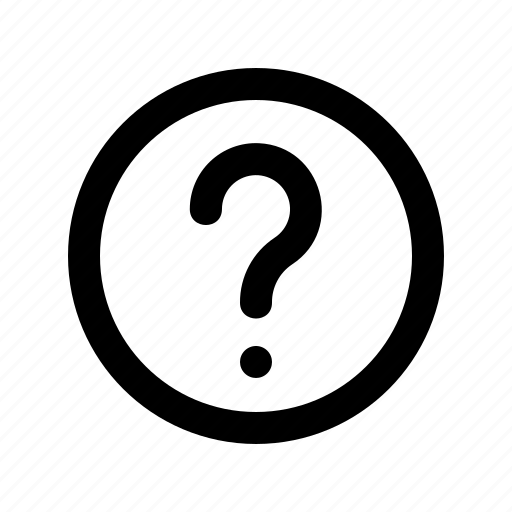
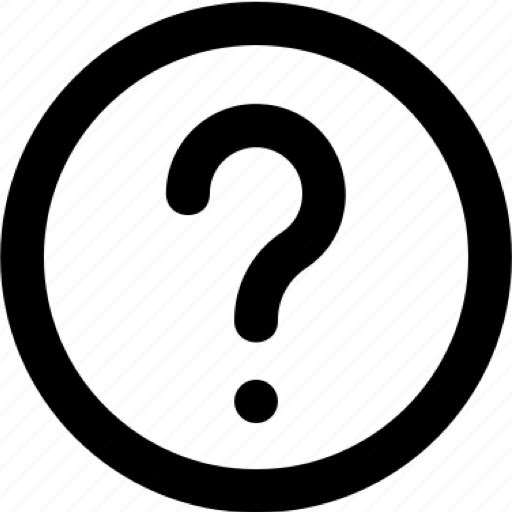
fixed buttons

diff --git a/screens/HomeScreen.js b/screens/HomeScreen.js
@@ -1,7 +1,6 @@
 import {useState} from 'react';
-import { StyleSheet, Text, TextInput, View, TouchableOpacity } from 'react-native';
+import { StyleSheet, Text, Image, TextInput, View, TouchableOpacity } from 'react-native';
 import Footer from '../components/Footer'
-import HelpIcon from '../components/HelpIcon'
 import * as SQLite from 'expo-sqlite'
 import {downloadDatabase} from '../database/databasefunctions'
 
@@ -40,7 +39,9 @@ export default function HomeScreen({navigation}) {
 
     return (
         <View style={styles.container}>
-          <HelpIcon />
+            <TouchableOpacity onPress={() => navigation.navigate('HelpScreen')}>
+                      <Image style={ styles.icon } source={require('../assets/question.png')}></Image>
+            </TouchableOpacity>
             <TouchableOpacity style={styles.syncButton} onPress={() => downloadDatabase()}>
               <Text style={styles.buttonText}>Download DB </Text>
             </TouchableOpacity>
@@ -64,13 +65,23 @@ const styles = StyleSheet.create({
     container: {
       flex: 1,
       backgroundColor: '#fff',
-      alignItems: 'center'
     },
+
+    icon:{
+      height: 50,
+      width: 50,
+      resizeMode: 'contain',
+      top: 50,
+      right:20,
+      position: 'absolute',
+    },
+
     boxText:{
         color: 'black',
         fontSize: 15,
         textAlign: 'center',
         top: "30%",
+        alignSelf: 'center',
     },
     sendButton:{
       backgroundColor: 'lightblue',
@@ -79,6 +90,7 @@ const styles = StyleSheet.create({
       justifyContent: 'center',
       borderRadius: 50,
       top: "30%",
+      alignSelf: 'center',
     },
 
     syncButton:{
@@ -88,6 +100,7 @@ const styles = StyleSheet.create({
       justifyContent: 'center',
       borderRadius: 50,
       top: "15%",
+      alignSelf: 'center',
     },
 
     buttonText:{
@@ -107,6 +120,7 @@ const styles = StyleSheet.create({
     fontSize: "20px",
     textAlign: "center",
     top: "30%",
+    alignSelf: 'center',
     }
   
   });

diff --git a/screens/MoreScreen.js b/screens/MoreScreen.js
@@ -1,13 +1,14 @@
-import { StyleSheet, Text, View, TouchableOpacity } from 'react-native';
+import { StyleSheet, Text, View, Image, TouchableOpacity } from 'react-native';
 import Footer from '../components/Footer'
-import HelpIcon from '../components/HelpIcon'
 
 export default function MoreScreen({navigation}) {
 
 
     return (
         <View style={styles.container}>
-            <HelpIcon />
+            <TouchableOpacity onPress={() => navigation.navigate('HelpScreen')}>
+                      <Image style={ styles.icon } source={require('../assets/question.png')}></Image>
+            </TouchableOpacity>
             <Text style={styles.boxText}>More Page</Text>
             <Footer />
         </View>
@@ -18,13 +19,20 @@ const styles = StyleSheet.create({
     container: {
       flex: 1,
       backgroundColor: '#fff',
-      justifyContent: 'center',
-      alignItems: 'center' 
     },
     boxText:{
         color: 'black',
         fontSize: 15,
         textAlign: 'center',
+        top: "50%",
+    },
+    icon:{
+      height: 50,
+      width: 50,
+      resizeMode: 'contain',
+      top: 50,
+      right:20,
+      position: 'absolute',
     },
   
   });

diff --git a/screens/HelpScreen.js b/screens/HelpScreen.js
@@ -1,12 +1,14 @@
-import { StyleSheet, Text, View, TouchableOpacity } from 'react-native';
-import Footer from '../components/Footer'
-import Exit from '../components/Exit'
+import { StyleSheet, Text, View, Image, TouchableOpacity } from 'react-native';
+import Footer from '../components/Footer';
 
 export default function HelpScreen({navigation}) {
 
     return (
         <View style={styles.container}>
-        <Exit />
+            <TouchableOpacity onPress={() => navigation.goBack()}>
+                <Image style={styles.icon} source={require('../assets/exit.png')}></Image>
+            </TouchableOpacity>
+
             <Text style={styles.boxText}>Help</Text>
             <Footer />
         </View>
@@ -17,13 +19,20 @@ const styles = StyleSheet.create({
     container: {
       flex: 1,
       backgroundColor: '#fff',
-      justifyContent: 'center',
-      alignItems: 'center' 
     },
     boxText:{
         color: 'black',
         fontSize: 15,
         textAlign: 'center',
+        top: "50%"
+    },
+    icon:{
+      height: 50,
+      width: 50,
+      resizeMode: 'contain',
+      top: 50,
+      right:20,
+      position: 'absolute',
     },
   
   });

diff --git a/screens/ViewScreen.js b/screens/ViewScreen.js
@@ -1,13 +1,14 @@
-import { StyleSheet, Text, View, TouchableOpacity } from 'react-native';
+import { StyleSheet, Text, View, Image, TouchableOpacity } from 'react-native';
 import Footer from '../components/Footer'
-import HelpIcon from '../components/HelpIcon'
 
 export default function ViewScreen({navigation}) {
 
 
     return (
         <View style={styles.container}>
-            <HelpIcon />
+         <TouchableOpacity onPress={() => navigation.navigate('HelpScreen')}>
+                      <Image style={ styles.icon } source={require('../assets/question.png')}></Image>
+        </TouchableOpacity>
             <Text style={styles.boxText}>View Page</Text>
             <Footer />
         </View>
@@ -18,13 +19,20 @@ const styles = StyleSheet.create({
     container: {
       flex: 1,
       backgroundColor: '#fff',
-      justifyContent: 'center',
-      alignItems: 'center' 
     },
     boxText:{
         color: 'black',
         fontSize: 15,
         textAlign: 'center',
+        top: '50%',
+    },
+    icon:{
+      height: 50,
+      width: 50,
+      resizeMode: 'contain',
+      top: 50,
+      right:20,
+      position: 'absolute',
     },
   
   });
